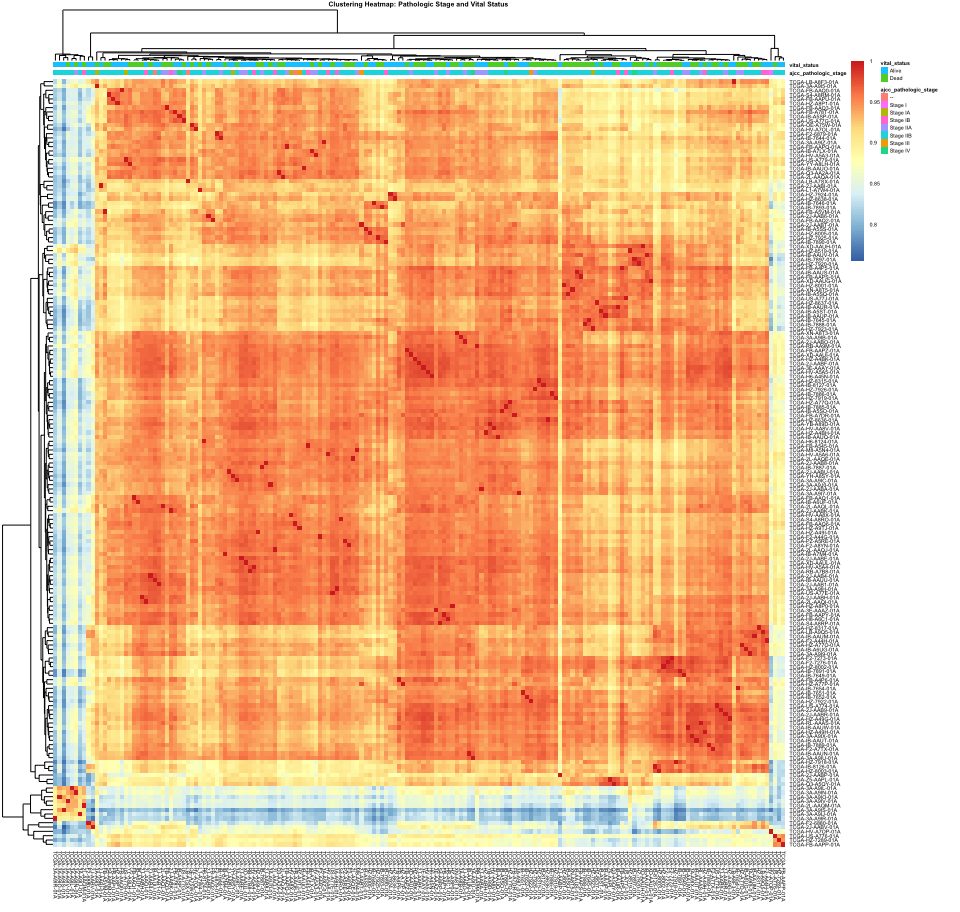
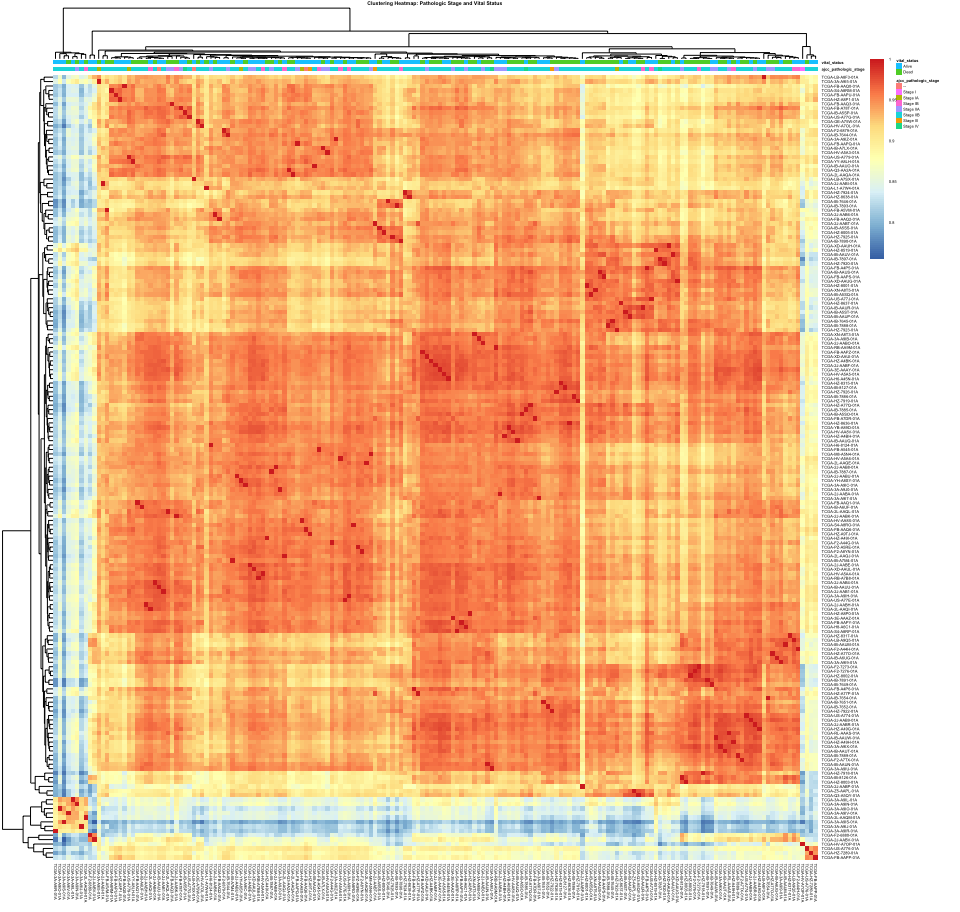
updated heatmap

diff --git a/Simran/Simran-.md b/Simran/Simran-.md
@@ -177,7 +177,7 @@ stages:](https://www.researchgate.net/publication/279306792/figure/tbl2/AS:60171
     pheatmap(data.matrix, cluster_rows = T, scale = "none", clustering_method = "average", 
         clustering_distance_cols = "correlation", show_colnames = T, show_rownames = T, 
         main = "Clustering Heatmap: Pathologic Stage and Vital Status ", annotation = designFactors, treeheight_col = 35, treeheight_row = 35,
-        fontsize = 4)
+        fontsize = 3)
 
 ![](Simran-_files/figure-markdown_strict/fig8-1.png)
 
@@ -195,7 +195,7 @@ stages:](https://www.researchgate.net/publication/279306792/figure/tbl2/AS:60171
     pheatmap(data.matrix, cluster_rows = T, scale = "none", clustering_method = "average", 
         clustering_distance_cols = "correlation", show_colnames = T, show_rownames = T, 
         main = "Clustering Heatmap: Gender and Race", annotation = designFactors, treeheight_col = 35, treeheight_row = 35,
-        fontsize = 4)
+        fontsize = 3)
 
 ![](Simran-_files/figure-markdown_strict/fig9-1.png)
 
@@ -213,6 +213,6 @@ stages:](https://www.researchgate.net/publication/279306792/figure/tbl2/AS:60171
     pheatmap(data.matrix, cluster_rows = T, scale = "none", clustering_method = "average", 
         clustering_distance_cols = "correlation", show_colnames = T, show_rownames = T, 
         main = "Clustering Heatmap: AJCC TNM System", annotation = designFactors, treeheight_col = 35, treeheight_row = 35,
-        fontsize = 4)
+        fontsize = 3)
 
 ![](Simran-_files/figure-markdown_strict/fig10-1.png)
